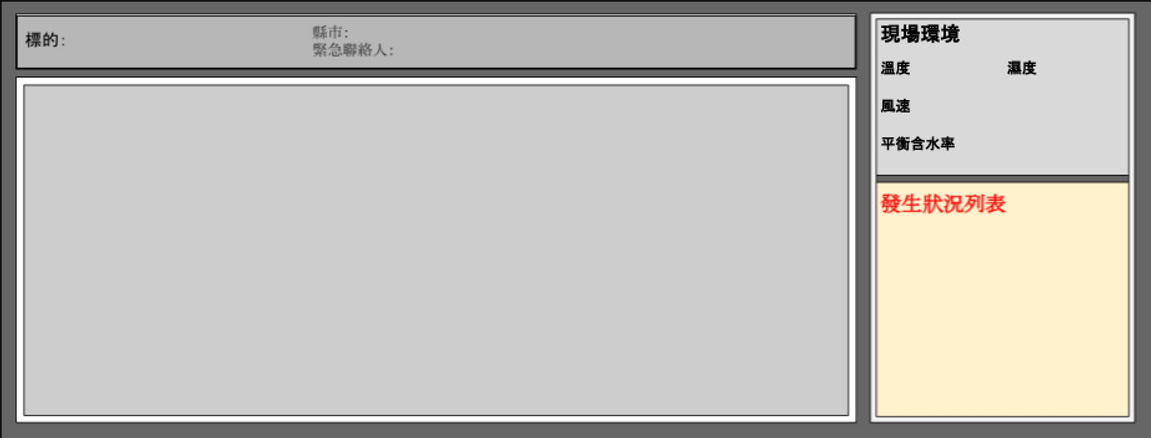
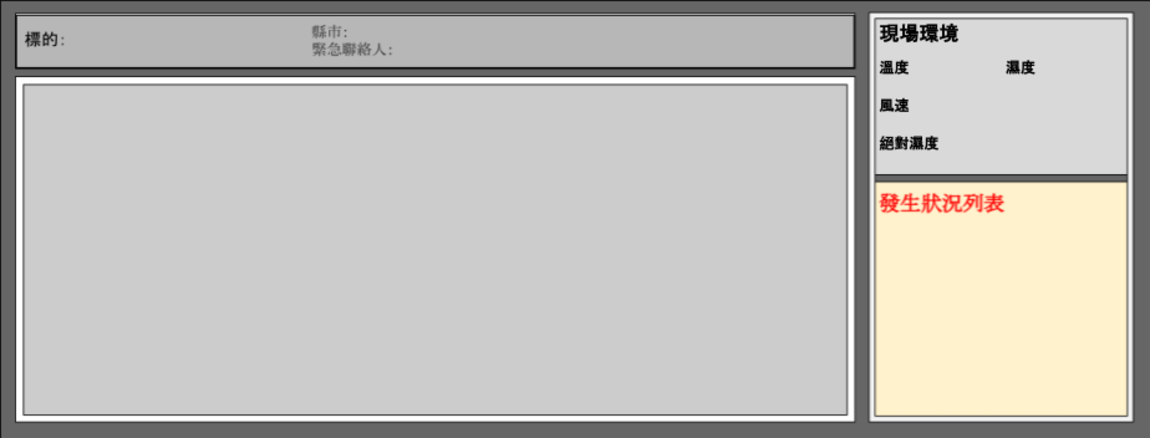
主殿開口警告標示修改

Changed region(s): [[0.0, 0.0, 1.0, 0.9795], [0.8826, 0.1187, 0.913, 0.1781]]

diff --git a/MOC /app.py b/MOC /app.py
@@ -11,7 +11,7 @@ def get_info(event):
         "B": "中上方",
         "C": "右上方",
         "D": "左中方",
-        "E": "正中方",
+        "E": "正中間",
         "F": "右中方",
         "G": "左下方",
         "H": "中下方",
@@ -27,6 +27,7 @@ def get_info(event):
     time = data['Time'].split(" - ")[1]
     # 傳入 class 所需變數
     result = Create_Img(time=time, interface=data['Interface'], tempo_name=data['Tempo_name'])
+    image_data = result.get_info()
     # 繪製目標圖
     result.draw_result_img()
 
@@ -34,7 +35,7 @@ def get_info(event):
     print({"alert_data": alert_data})
     # 繪製警告標誌
     if interface_combobox.get() == 'Interface 1':
-        content = list()
+        content = ['左下方'] if data.get('Tempo_name') == '北港朝天宮 - 主殿' and image_data['wind_speed'] != 0 else list()
         icon_mapping = {
             "A": ("L1", "W3"), 
             "D": ("L2", "W3"),
@@ -50,14 +51,18 @@ def get_info(event):
             if i.split('_')[0] != 'interface1':
                 alert_data.pop(i)
         for k, v in alert_data.items():
-            if float(v) > 11.5:
+            if float(v) < 11.5 or float(v) > 15:
                 font_info = icon_mapping.get(k.split('_')[1])
                 Create_Img.draw_watermark_on_the_base_img('output.png', warning_icon, font_info[0], font_info[1])
-                content.append(content_mapping.get(k.split('_')[1]))
+                position_info = content_mapping.get(k.split('_')[1])
+                if position_info not in content:
+                    content.append(position_info)
         content = "區域：{area}".format(area = content)
         result.write_text_on_image(content, (880, 240), 15, (255, 20, 20))
+        if data.get('Tempo_name') == '北港朝天宮 - 主殿' and image_data['wind_speed'] != 0:
+            Create_Img.draw_watermark_on_the_base_img('output.png', warning_icon, 'L3', 'W3')
     elif interface_combobox.get() == 'Interface 2':
-        content = list()
+        content = ['中上方', '正中間'] if data.get('Tempo_name') == '北港朝天宮 - 主殿' and image_data['wind_speed'] != 0 else list()
         icon_mapping = {
             "A": ("L4", "W2"), 
             "D": ("L5", "W2"),
@@ -74,14 +79,19 @@ def get_info(event):
                 alert_data.pop(i)
 
         for k, v in alert_data.items():
-            if float(v) > 11.5:
+            if float(v) < 11.5 or float(v) > 15:
                 font_info = icon_mapping.get(k.split('_')[1])
                 Create_Img.draw_watermark_on_the_base_img('output.png', warning_icon, font_info[0], font_info[1])
-                content.append(content_mapping.get(k.split('_')[1]))
+                position_info = content_mapping.get(k.split('_')[1])
+                if position_info not in content:
+                    content.append(position_info)
         content = "區域：{area}".format(area = content)
         result.write_text_on_image(content, (880, 240), 15, (255, 20, 20))
+        if data.get('Tempo_name') == '北港朝天宮 - 主殿' and image_data['wind_speed'] != 0:
+            Create_Img.draw_watermark_on_the_base_img('output.png', warning_icon, 'M4', 'W2')
+            Create_Img.draw_watermark_on_the_base_img('output.png', warning_icon, 'M5', 'W2')
     else:
-        content = list()
+        content = ['右上方'] if data.get('Tempo_name') == '北港朝天宮 - 主殿' and image_data['wind_speed'] != 0 else list()
         icon_mapping = {
             "A": ("L7", "W1"), 
             "D": ("L8", "W1"),
@@ -98,12 +108,16 @@ def get_info(event):
                 alert_data.pop(i)
 
         for k, v in alert_data.items():
-            if float(v) > 11.5:
+            if float(v) < 11.5 or float(v) > 15:
                 font_info = icon_mapping.get(k.split('_')[1])
                 Create_Img.draw_watermark_on_the_base_img('output.png', warning_icon, font_info[0], font_info[1])
-                content.append(content_mapping.get(k.split('_')[1]))
+                position_info = content_mapping.get(k.split('_')[1])
+                if position_info not in content:
+                    content.append(position_info)
         content = "區域：{area}".format(area = content)
         result.write_text_on_image(content, (880, 240), 15, (255, 20, 20))
+        if data.get('Tempo_name') == '北港朝天宮 - 主殿' and image_data['wind_speed'] != 0:
+            Create_Img.draw_watermark_on_the_base_img('output.png', warning_icon, 'R7', 'W1')
     # 設置預設圖片
     photo = tk.PhotoImage(file="output.png")
     imgLabel = tk.Label(root, image=photo)

diff --git a/MOC /image.py b/MOC /image.py
@@ -102,7 +102,7 @@ Z: 3315 ~ 4536 ]"""
         # 新增 RGB 格式底圖
         text_conf = Image.new('RGBA', image.size)
         # 設定字型、文字大小與文字透明度
-        font = ImageFont.truetype("Hiragino Sans GB.ttc", font_size, encoding='utf-8')
+        font = ImageFont.truetype("./NotoSansCJKtc-hinted/NotoSansCJKtc-DemiLight.otf", font_size, encoding='utf-8')
         # 用底圖新增 ImageDraw 物件
         draw = ImageDraw.Draw(text_conf)
         # 輸入文字
@@ -183,19 +183,19 @@ Z: 3315 ~ 4536 ]"""
         # 繪製現場監測畫面
         self.write_text_on_image(inside_of_frame, (340, 87), 23, black_font)
         # 繪製目標名稱
-        self.write_text_on_image(self.target, (75, 27), 23, black_font)
+        self.write_text_on_image(self.target, (75, 20), 23, black_font)
         # 繪製縣市名稱
-        self.write_text_on_image(self.country, (360, 25), 13, black_font)
+        self.write_text_on_image(self.country, (360, 20), 13, black_font)
         # 繪製聯絡人名稱
-        self.write_text_on_image(self.contact_person, (400, 43), 13, black_font)
+        self.write_text_on_image(self.contact_person, (400, 37), 13, black_font)
         # 繪製溫度
-        self.write_text_on_image(self.temp, (925, 60), 15, blue_font)
+        self.write_text_on_image(self.temp, (925, 54), 15, blue_font)
         # 繪製濕度
-        self.write_text_on_image(self.hum, (1045, 60), 15, blue_font)
+        self.write_text_on_image(self.hum, (1045, 54), 15, blue_font)
         # 繪製風速
-        self.write_text_on_image(self.wind_speed, (925, 100), 15, blue_font)
-        # 繪製平衡含水率
-        self.write_text_on_image(self.amc, (970, 137), 15, blue_font)
+        self.write_text_on_image(self.wind_speed, (925, 93), 15, blue_font)
+        # 繪製絕對濕度
+        self.write_text_on_image(self.amc, (960, 130), 15, blue_font)
         # 繪製警告標題
         self.write_text_on_image(self.warn_title, (880, 218), 15, red_font)
         # 繪製毀壞警告區域
